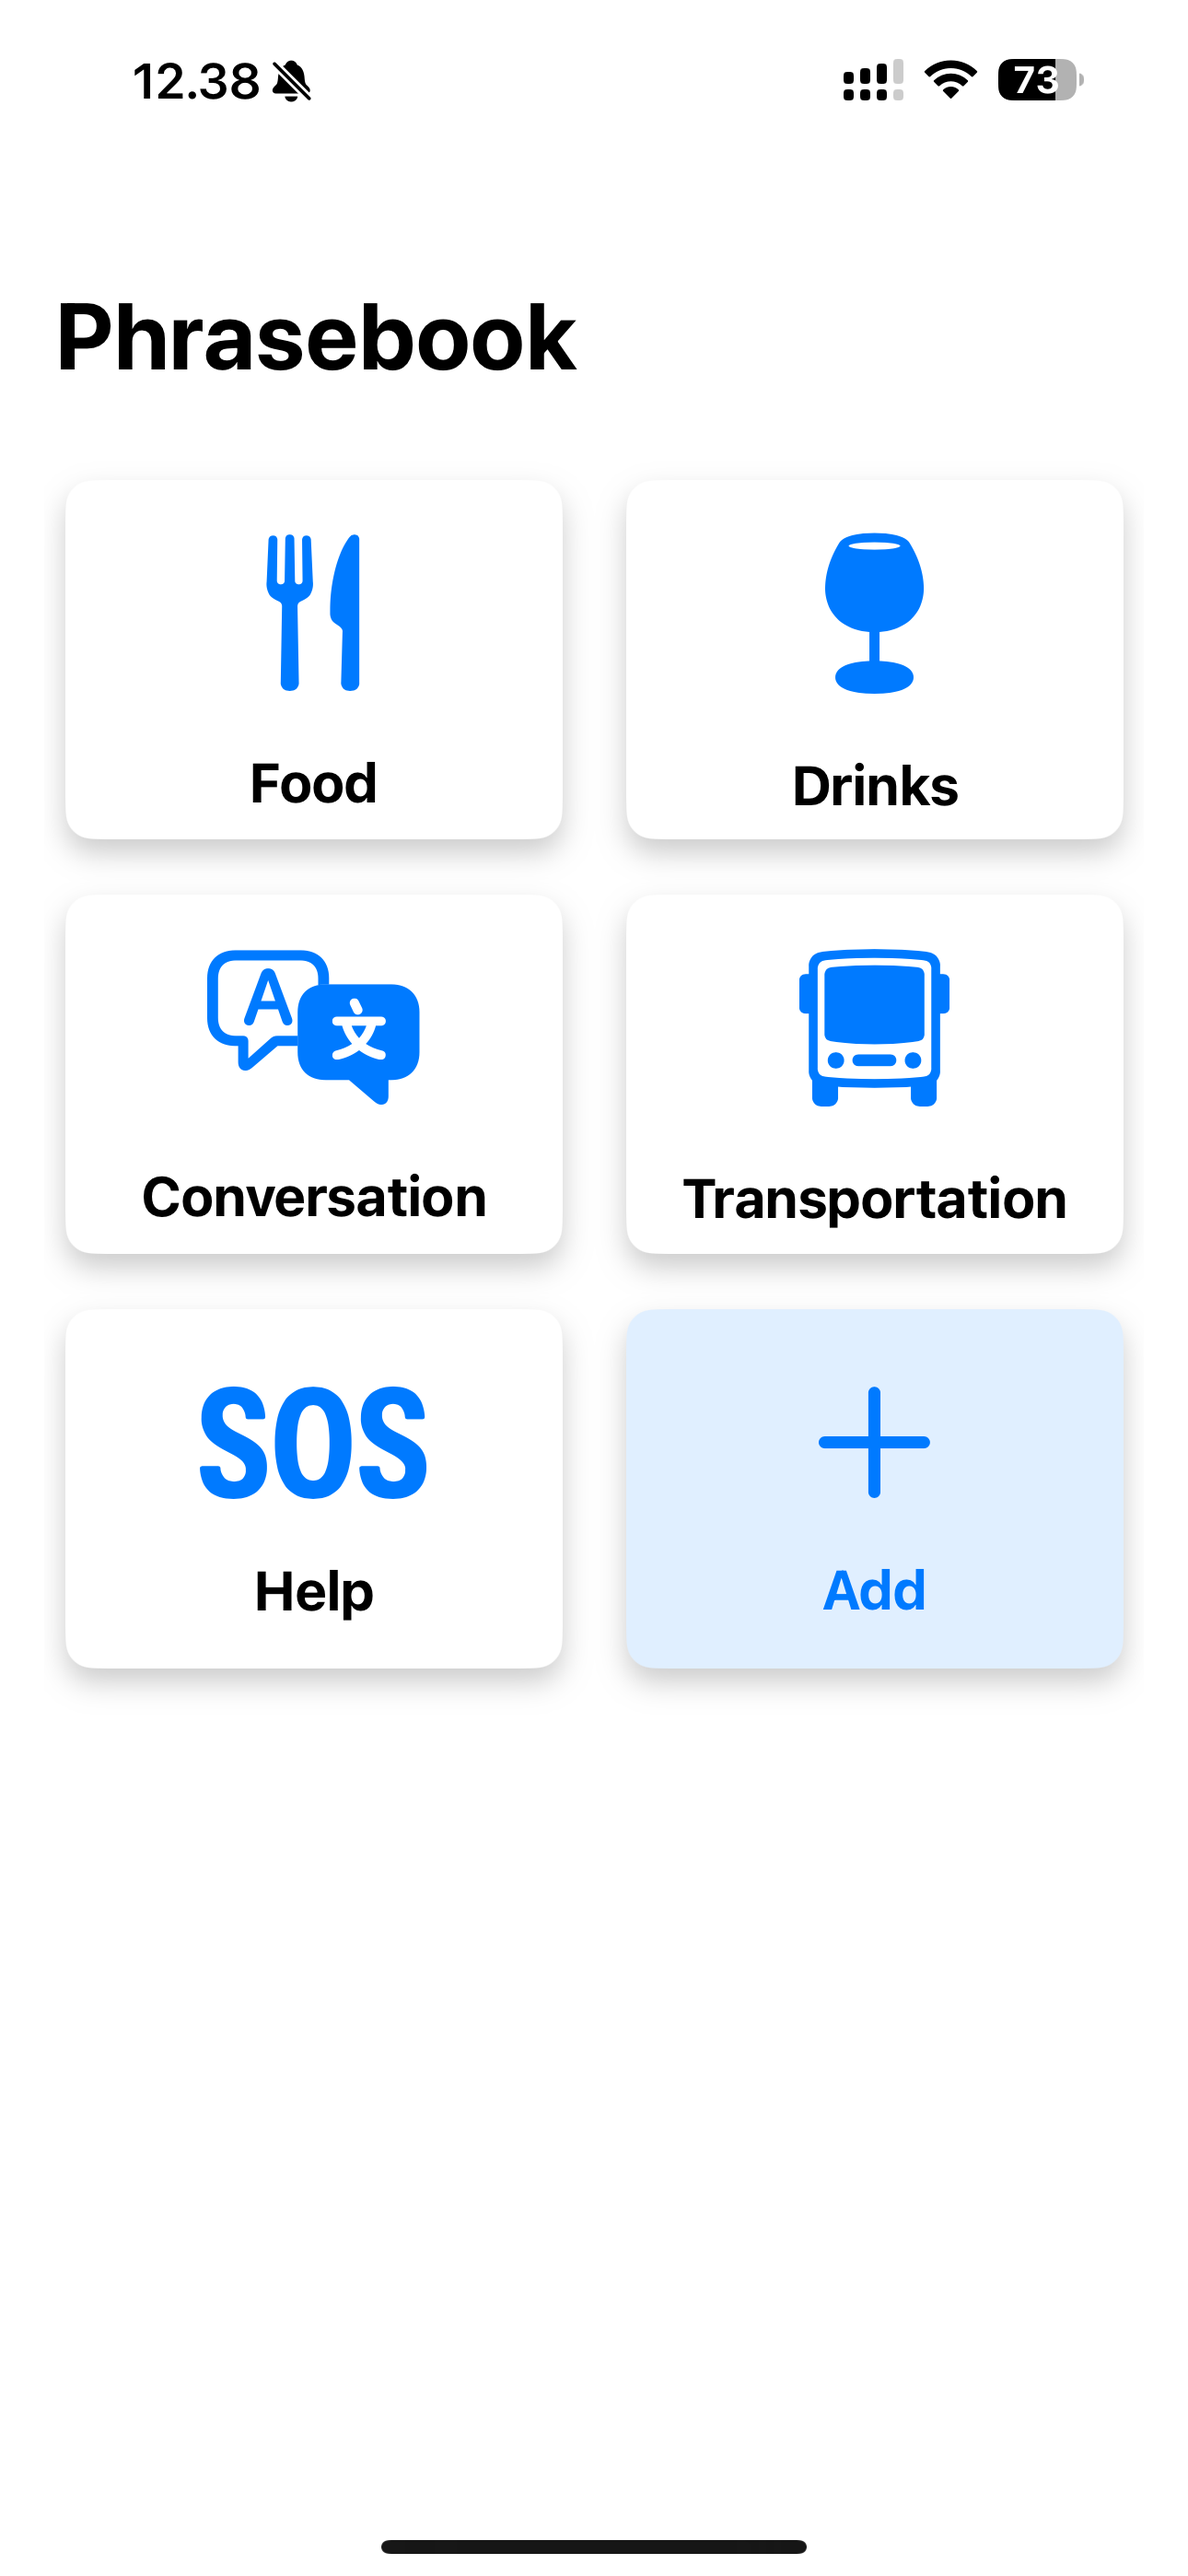
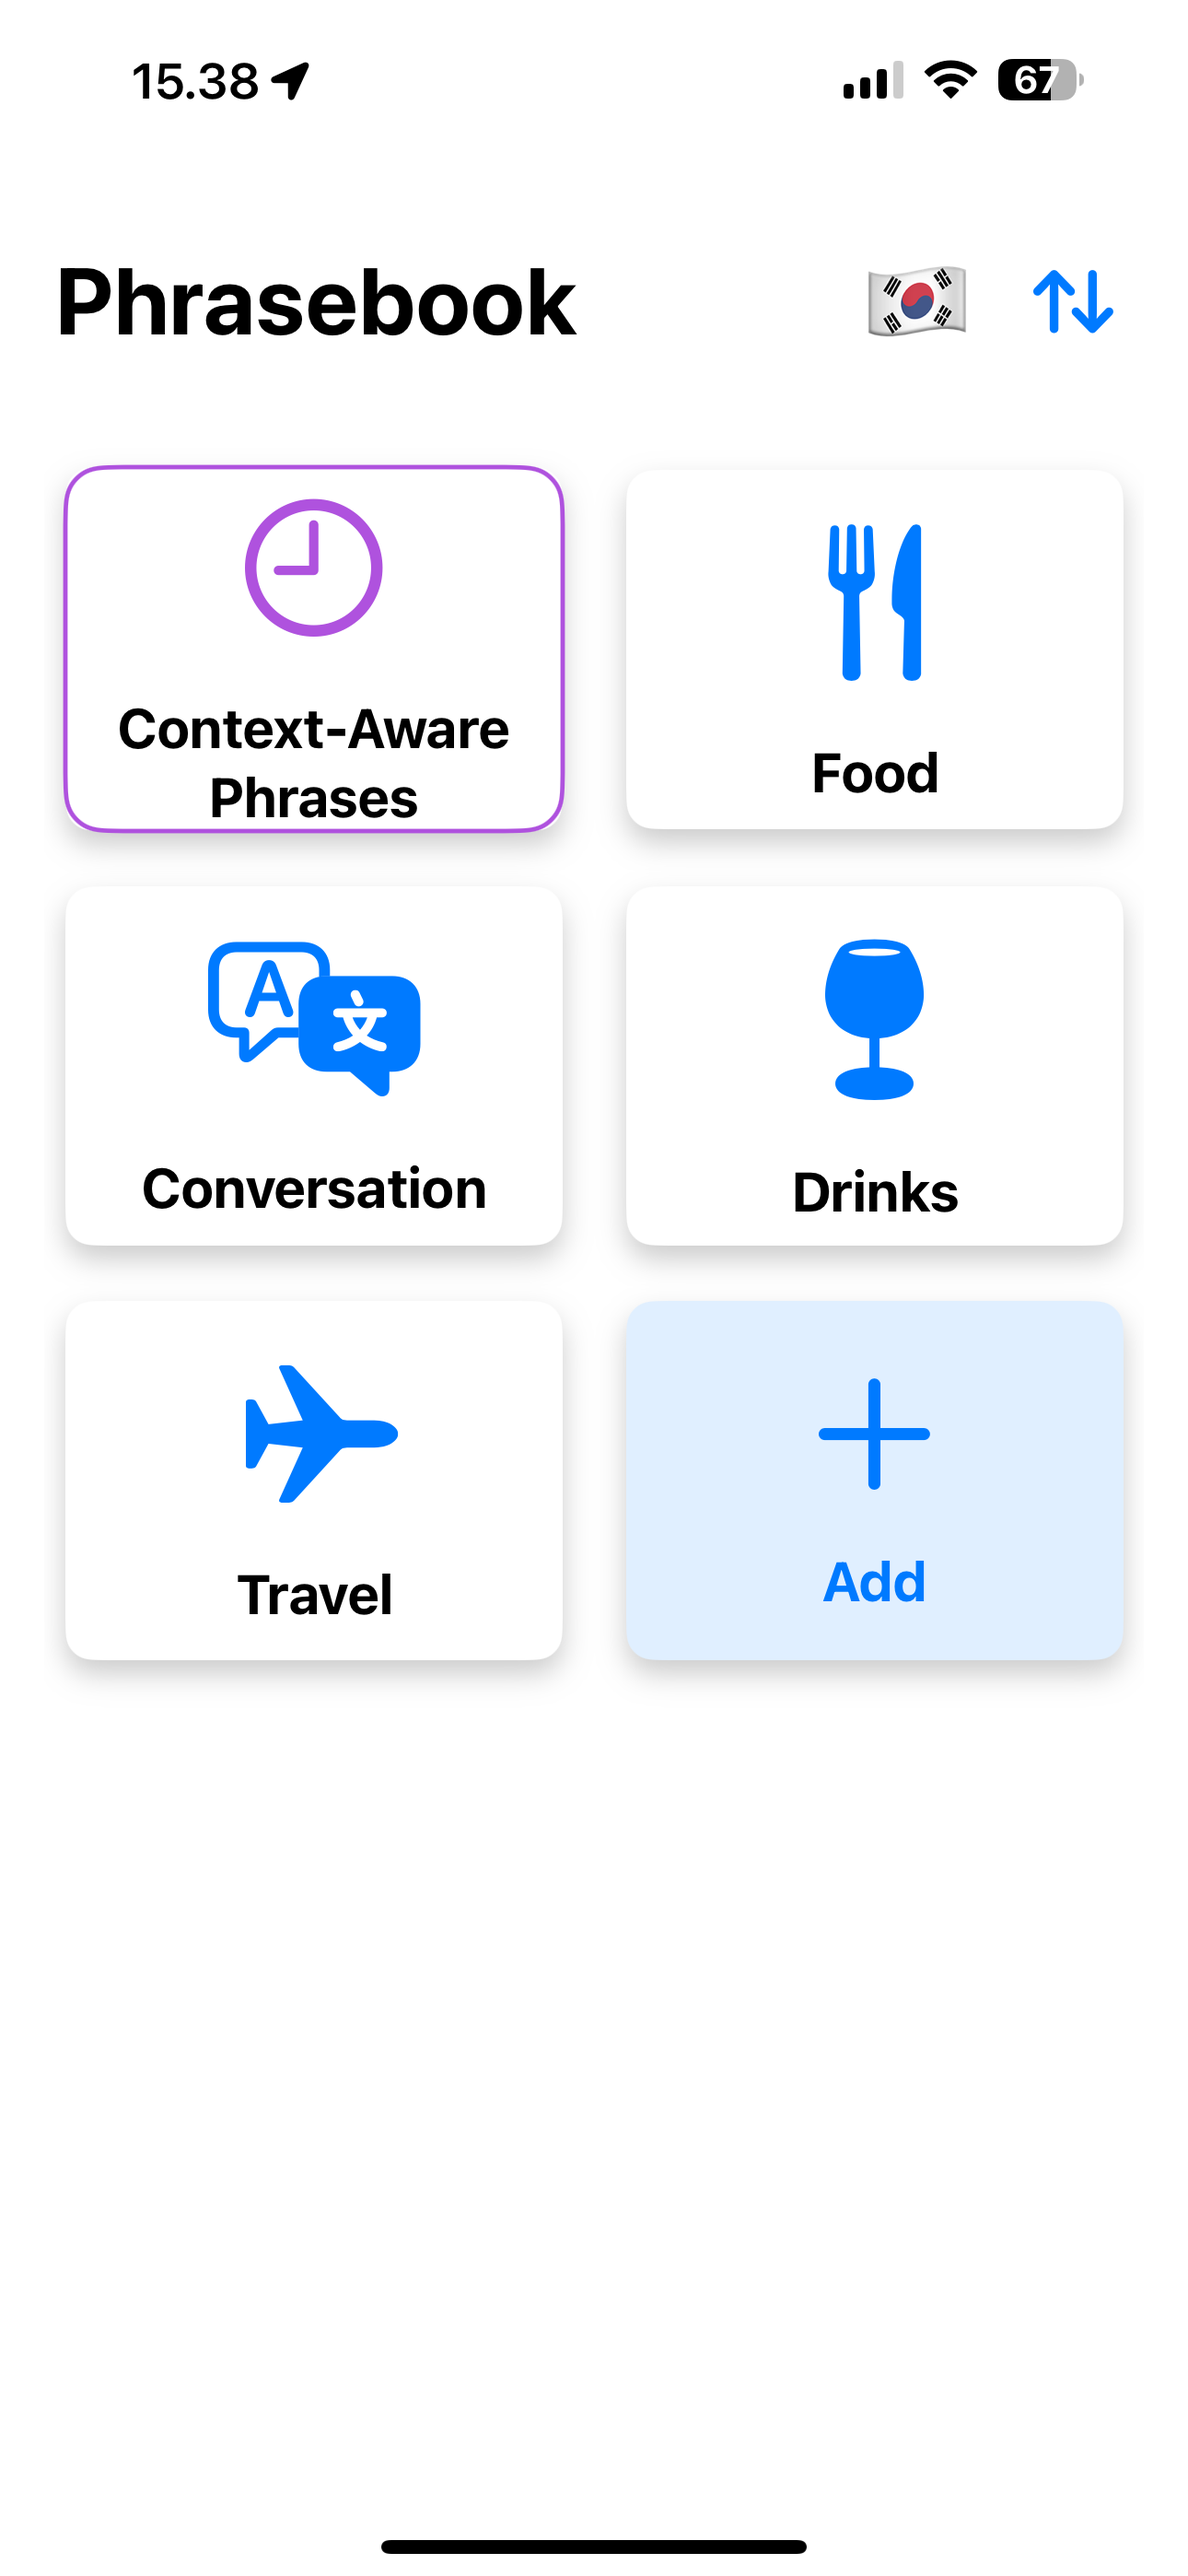
Updated README with new screenshots

diff --git a/README.md b/README.md
@@ -1,8 +1,8 @@
 # Phraser
 
-Phraser is a mobile app developed for the course CSED404 - Mobile & Ubiquitous Computing.
+<img src="./readme_assets/phraser.PNG" alt="logo" width=25% height=25% />
 
-It is designed to help users quickly access and save translated phrases in various languages based on customizable categories. The app's main functionality includes displaying, translating, and organizing phrases into folders for quick retrieval. Additionally, the app will have context-aware assistant, which provides relevant phrases based on factors such as time of day or location.
+Phraser is an app designed to help users quickly access and save translated phrases in various languages based on customizable categories. The app's main functionality includes displaying, translating, and organizing phrases into folders for quick retrieval. Additionally, the app has a context-aware assistant, which provides relevant phrases based on factors such as time of day or location.
 
 ## Features
 
@@ -11,17 +11,47 @@ It is designed to help users quickly access and save translated phrases in vario
 - **Phonetic Support**: Along with translations, phonetic representations are provided to assist with pronunciation.
 - **Audio Playback**: Translated phrases can be played aloud to help with pronunciation and language learning.
 - **Context-Aware Suggestions**: The app suggests phrases based on context (e.g., time of day), which users can add to their own categories.
-- **User-Friendly Interface**: Uses SwiftUI’s `LazyVGrid` for efficient and clean category display, alongside a streamlined phrase entry and display interface.
+- **User-Friendly Interface**: Makes use of SwiftUI’s `LazyVGrid` for efficient and clean category display, alongside a streamlined phrase entry and display interface.
+
+## Video Demo
+
+
 
 ## Screenshots
 
-|                 Category view                 |                    Adding a category                    |
-| :-------------------------------------------: | :-----------------------------------------------------: |
-| ![categories](./readme_assets/categories.PNG) | ![create_category](./readme_assets/create_category.PNG) |
+|                        Category view                         |                      Adding a category                       |
+| :----------------------------------------------------------: | :----------------------------------------------------------: |
+|        ![categories](./readme_assets/categories.PNG)         |   ![create_category](./readme_assets/create_category.PNG)    |
+|                     **Phrase overview**                      |                    **Creating a phrase**                     |
+|           ![phrases](./readme_assets/phrases.PNG)            |     ![create_phrases](./readme_assets/create_phrase.PNG)     |
+|                   **Context-Aware Phrase**                   |       **Searching for Phrases (English translation)**        |
+| ![Context-aware phrases](./readme_assets/context_aware_phrase.PNG) | ![Searching for english translation](./readme_assets/search_en.PNG) |
+|       **Searching for Phrases (Translated language)**        |         **Searching for Phrases (Transliteration)**          |
+| ![Searching in translated language](./readme_assets/search_kr.PNG) | ![Transliteration search](./readme_assets/search_transliteration.PNG) |
+|                 **Selecting a new language**                 |                 **Selecting a new language**                 |
+| ![Changing language kr](./readme_assets/select_language.PNG) | ![Changing language zh](./readme_assets/select_language_zh.PNG) |
+|          **New categories for Chinese phrasebook**           |              **Phrase translations in Chinese**              |
+|  ![Categories in chinese](./readme_assets/zh_category.PNG)   |    ![Phrases in chinese](./readme_assets/zh_phrases.PNG)     |
 
-|             Phrase overview             |                  Creating a phrase                   |
-| :-------------------------------------: | :--------------------------------------------------: |
-| ![phrases](./readme_assets/phrases.PNG) | ![create_phrases](./readme_assets/create_phrase.PNG) |
+| Context-Aware Phrases, side by side          |
+| -------------------------------------------- |
+| ![context](./readme_assets/context.png)      |
+| **Basic architectural overview**             |
+| ![phrases](./readme_assets/architecture.png) |
+
+## Usage
+
+1. **Add New Category**: From the main screen, tap the "Add Category" button to create a new category.
+2. **Create Phrases**: Enter a phrase, and it will be automatically translated with phonetic and audio support.
+3. **Organize Phrases**: Add phrases to your preferred categories for easy access.
+4. **Contextual Phrases**: Access the "Context-Aware Phrases" section for suggestions based on your current context.
+
+## Technology Stack
+
+- **SwiftUI**: Provides a responsive and adaptive UI for seamless interaction.
+- **SwiftData**: Manages persistent data storage for phrases and categories.
+- **Azure Translation API**: Handles real-time translation of user-entered phrases.
+- **AVFoundation**: Plays back translated phrases to support language learning.
 
 ## Getting Started
 
@@ -43,20 +73,6 @@ It is designed to help users quickly access and save translated phrases in vario
 3. Setup the credentials in `Secrets.xcconfig`
 
 4. Build and run the project on an iOS simulator or a physical device.
-
-## Usage
-
-1. **Add New Category**: From the main screen, tap the "Add Category" button to create a new category.
-2. **Create Phrases**: Enter a phrase, and it will be automatically translated with phonetic and audio support.
-3. **Organize Phrases**: Add phrases to your preferred categories for easy access.
-4. **Contextual Phrases**: Access the "Context-Aware Phrases" section for suggestions based on your current context.
-
-## Technology Stack
-
-- **SwiftUI**: Provides a responsive and adaptive UI for seamless interaction.
-- **SwiftData**: Manages persistent data storage for phrases and categories.
-- **Azure Translation API**: Handles real-time translation of user-entered phrases.
-- **AVFoundation**: Plays back translated phrases to support language learning.
 
 ## Author
 * [Jonas Solhaug Kaad](https://github.com/JonasKaad)
